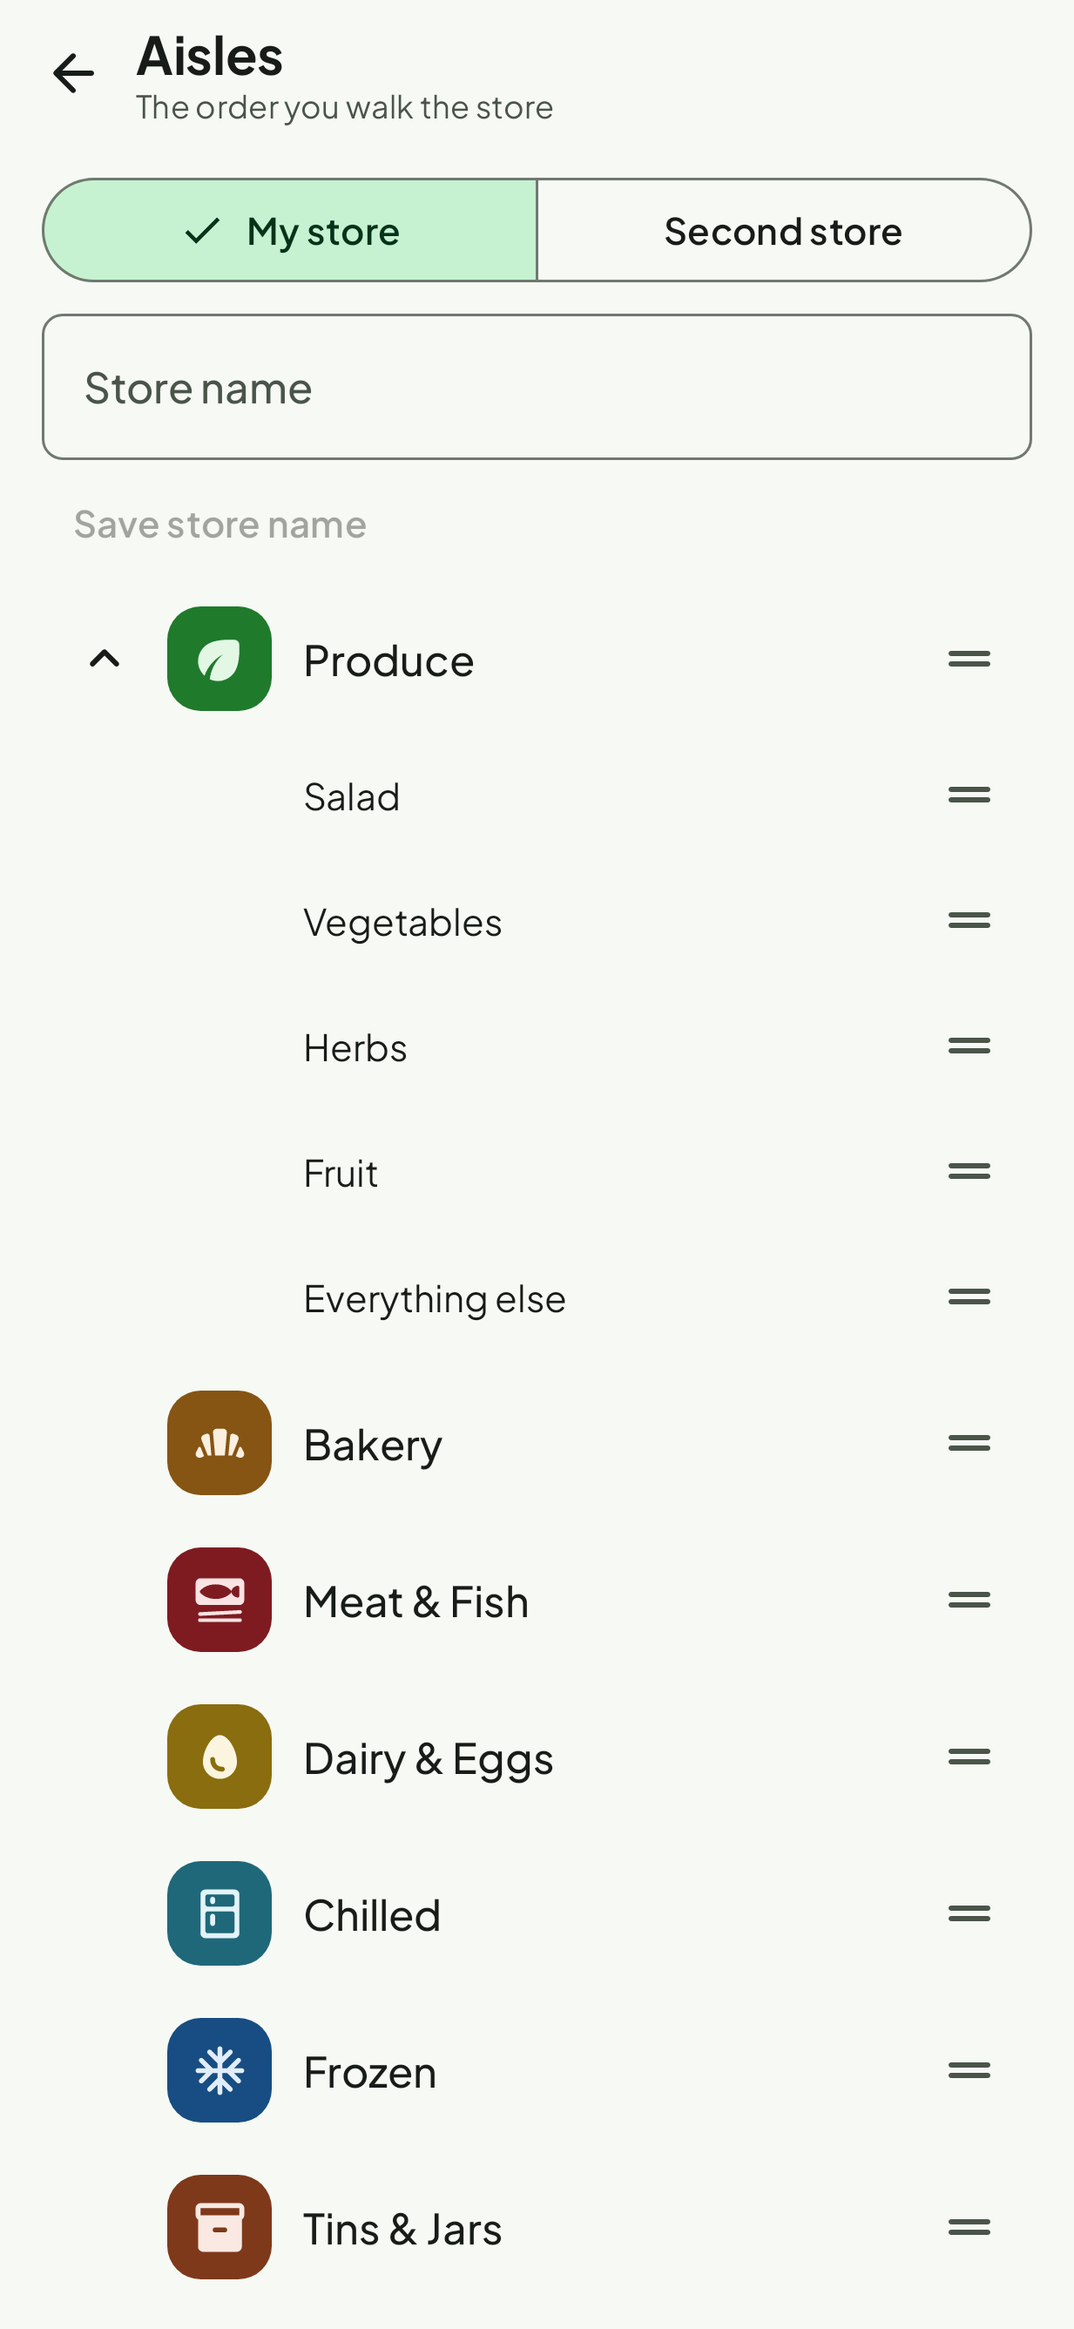
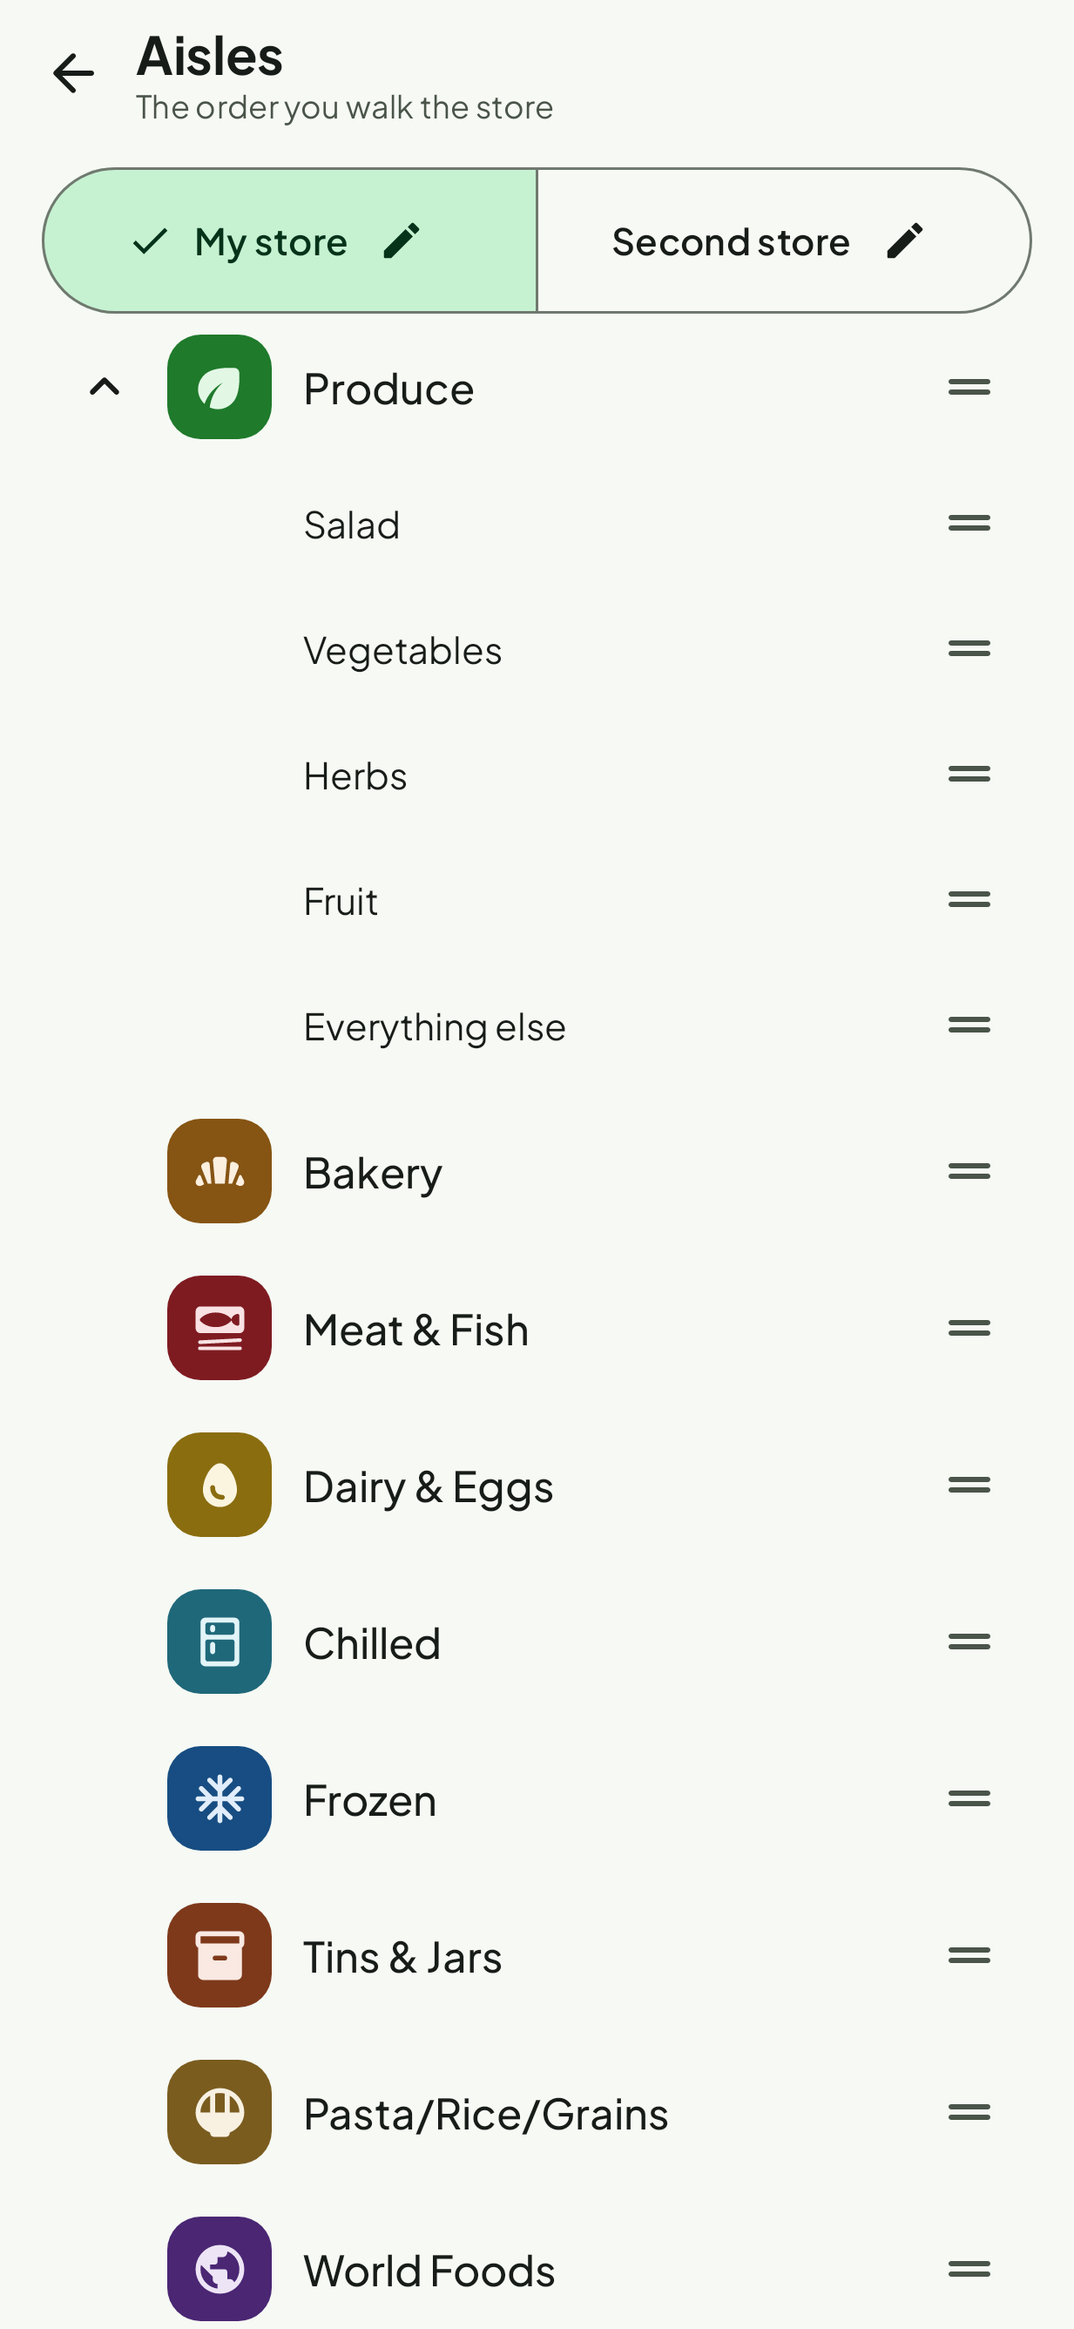
[AD.2] Store name: a pencil on each store tab
The name field and its button above the aisles went; each store tab's
pencil opens a small rename dialog for that store.

Claude-Session: https://claude.ai/code/session_01XHyUGxiCMSHv96zvVnb1yh

diff --git a/android/app/src/main/java/com/robert4lyf/hypershop/ui/settings/AislesRoute.kt b/android/app/src/main/java/com/robert4lyf/hypershop/ui/settings/AislesRoute.kt
@@ -1,12 +1,19 @@
 package com.robert4lyf.hypershop.ui.settings
 
 import androidx.compose.foundation.layout.Column
+import androidx.compose.foundation.layout.Row
 import androidx.compose.foundation.layout.fillMaxSize
 import androidx.compose.foundation.layout.fillMaxWidth
 import androidx.compose.foundation.layout.padding
+import androidx.compose.foundation.layout.size
 import androidx.compose.foundation.rememberScrollState
 import androidx.compose.foundation.verticalScroll
+import androidx.compose.material.icons.Icons
+import androidx.compose.material.icons.rounded.Edit
+import androidx.compose.material3.AlertDialog
 import androidx.compose.material3.ExperimentalMaterial3Api
+import androidx.compose.material3.Icon
+import androidx.compose.material3.IconButton
 import androidx.compose.material3.MaterialTheme
 import androidx.compose.material3.OutlinedTextField
 import androidx.compose.material3.SegmentedButton
@@ -20,8 +27,10 @@ import androidx.compose.runtime.getValue
 import androidx.compose.runtime.mutableStateOf
 import androidx.compose.runtime.saveable.rememberSaveable
 import androidx.compose.runtime.setValue
+import androidx.compose.ui.Alignment
 import androidx.compose.ui.Modifier
 import androidx.compose.ui.platform.testTag
+import androidx.compose.ui.text.style.TextOverflow
 import androidx.compose.ui.unit.dp
 import androidx.lifecycle.compose.collectAsStateWithLifecycle
 import androidx.lifecycle.viewmodel.compose.viewModel
@@ -49,7 +58,7 @@ fun AislesRoute(
             onMoveGroupTo = { a, g, i -> vm.moveGroupTo(a, g, i) },
             onResetAisles = { vm.resetAisleOrder() },
             onEditStore = { vm.editStore(it) },
-            onRenameStore = vm::renameStore,
+            onRenameStore = { store, name -> vm.renameStore(store, name) },
         ),
         onBack = onBack,
     )
@@ -69,32 +78,71 @@ fun AislesScreen(
         Column(Modifier.fillMaxSize().reorderViewport(reorder).verticalScroll(scroll).testTag("aisles")) {
             ScreenHeader(title = "Aisles", subtitle = "The order you walk the store", onBack = onBack, backTag = "aisles-back")
             Column(Modifier.padding(horizontal = 16.dp, vertical = 8.dp)) {
-                // Missing 4 of the review: a second store's order, picked when a shop starts.
+                // Missing 4 of the review: a second store's order, picked when a shop starts. Step AD.2: each store's
+                // tab has a pencil that renames it, in place of a name field above the aisles.
+                var renaming by rememberSaveable { mutableStateOf<Long?>(null) }
                 SingleChoiceSegmentedButtonRow(Modifier.fillMaxWidth()) {
-                    SegmentedButton(
-                        selected = ui.editingStore == 1L,
-                        onClick = { actions.onEditStore(1) },
-                        shape = SegmentedButtonDefaults.itemShape(0, 2),
-                        colors = basilSegmentedColors(),
-                        modifier = Modifier.testTag("store-1"),
-                    ) { Text(ui.storeNames[1] ?: "My store") }
-                    SegmentedButton(
-                        selected = ui.editingStore == 2L,
-                        onClick = { actions.onEditStore(2) },
-                        shape = SegmentedButtonDefaults.itemShape(1, 2),
-                        colors = basilSegmentedColors(),
-                        modifier = Modifier.testTag("store-2"),
-                    ) { Text(ui.storeNames[2] ?: "Second store") }
+                    for ((i, store) in listOf(1L, 2L).withIndex()) {
+                        val name = ui.storeNames[store] ?: if (store == 1L) "My store" else "Second store"
+                        SegmentedButton(
+                            selected = ui.editingStore == store,
+                            onClick = { actions.onEditStore(store) },
+                            shape = SegmentedButtonDefaults.itemShape(i, 2),
+                            colors = basilSegmentedColors(),
+                            modifier = Modifier.testTag("store-$store"),
+                        ) {
+                            Row(verticalAlignment = Alignment.CenterVertically) {
+                                Text(name, Modifier.weight(1f, fill = false), maxLines = 1, overflow = TextOverflow.Ellipsis)
+                                IconButton(
+                                    onClick = { renaming = store },
+                                    modifier = Modifier.size(40.dp).testTag("rename-store-$store"),
+                                ) {
+                                    Icon(Icons.Rounded.Edit, contentDescription = "Rename $name", modifier = Modifier.size(18.dp))
+                                }
+                            }
+                        }
+                    }
                 }
-                var storeName by rememberSaveable(ui.editingStore, ui.storeNames) {
-                    mutableStateOf(ui.storeNames[ui.editingStore].orEmpty())
+                renaming?.let { store ->
+                    RenameStoreDialog(
+                        ui.storeNames[store].orEmpty(),
+                        onDismiss = { renaming = null },
+                    ) {
+                        renaming = null
+                        actions.onRenameStore(store, it)
+                    }
                 }
-                OutlinedTextField(value = storeName, onValueChange = {
-                    storeName = it.take(80)
-                }, label = { Text("Store name") }, modifier = Modifier.fillMaxWidth())
-                TextButton(enabled = storeName.isNotBlank(), onClick = { actions.onRenameStore(storeName) }) { Text("Save store name") }
                 if (ui.loaded) AislesGroup(ui, actions, reorder)
             }
         }
     }
+}
+
+/** Step AD.2: a store's new name, from the pencil on its tab. */
+@Composable
+private fun RenameStoreDialog(
+    current: String,
+    onDismiss: () -> Unit,
+    onSave: (String) -> Unit,
+) {
+    var name by rememberSaveable { mutableStateOf(current) }
+    AlertDialog(
+        onDismissRequest = onDismiss,
+        title = { Text("Rename store") },
+        text = {
+            OutlinedTextField(
+                value = name,
+                onValueChange = { name = it.take(80) },
+                label = { Text("Store name") },
+                singleLine = true,
+                modifier = Modifier.fillMaxWidth().testTag("store-name"),
+            )
+        },
+        confirmButton = {
+            TextButton(enabled = name.isNotBlank(), onClick = { onSave(name.trim()) }, modifier = Modifier.testTag("store-name-save")) {
+                Text("Save")
+            }
+        },
+        dismissButton = { TextButton(onClick = onDismiss) { Text("Cancel") } },
+    )
 }

diff --git a/android/app/src/test/java/com/robert4lyf/hypershop/ui/settings/WalkingOrderScreenTest.kt b/android/app/src/test/java/com/robert4lyf/hypershop/ui/settings/WalkingOrderScreenTest.kt
@@ -5,6 +5,7 @@ import androidx.compose.runtime.mutableStateOf
 import androidx.compose.runtime.setValue
 import androidx.compose.ui.geometry.Offset
 import androidx.compose.ui.semantics.SemanticsActions
+import androidx.compose.ui.test.assertContentDescriptionEquals
 import androidx.compose.ui.test.getUnclippedBoundsInRoot
 import androidx.compose.ui.test.junit4.createComposeRule
 import androidx.compose.ui.test.onNodeWithContentDescription
@@ -51,30 +52,33 @@ class WalkingOrderScreenTest {
         compose.setContent {
             HyperShopTheme(dynamicColor = false) {
                 AislesScreen(
-                    state,
-                    SettingsActions(
-                        onMoveAisleTo = { a, i ->
-                            events += "aisle $a to $i"
-                            state =
-                                state.copy(
-                                    aisles =
-                                        state.aisles.toMutableList().apply {
-                                            remove(a)
-                                            add(i, a)
-                                        },
-                                )
-                        },
-                        onMoveGroup = { a, g, by -> events += "move $a $g $by" },
-                        onMoveGroupTo = { a, g, i ->
-                            events += "to $a $g $i"
-                            val gs =
-                                state.groups.getValue(a).toMutableList().apply {
-                                    remove(g)
-                                    add(i, g)
-                                }
-                            state = state.copy(groups = state.groups + (a to gs))
-                        },
-                    ),
+                    ui = state,
+                    actions =
+                        SettingsActions(
+                            onMoveAisleTo = { a, i ->
+                                events += "aisle $a to $i"
+                                state =
+                                    state.copy(
+                                        aisles =
+                                            state.aisles.toMutableList().apply {
+                                                remove(a)
+                                                add(i, a)
+                                            },
+                                    )
+                            },
+                            onMoveGroup = { a, g, by -> events += "move $a $g $by" },
+                            onEditStore = { events += "edit $it" },
+                            onRenameStore = { store, name -> events += "rename $store $name" },
+                            onMoveGroupTo = { a, g, i ->
+                                events += "to $a $g $i"
+                                val gs =
+                                    state.groups.getValue(a).toMutableList().apply {
+                                        remove(g)
+                                        add(i, g)
+                                    }
+                                state = state.copy(groups = state.groups + (a to gs))
+                            },
+                        ),
                 )
             }
         }
@@ -194,5 +198,16 @@ class WalkingOrderScreenTest {
             listOf("Move ${AisleCode.entries[0].displayName} down", "Move ${AisleCode.entries[0].displayName} to bottom"),
             labels("aisle-row-${AisleCode.entries[0].name}"),
         )
+    }
+
+    @Test
+    fun eachStoreTabHasAPencilAndNoNameFieldAboveTheAisles() {
+        // Step AD.2: no name field or "Save store name" above the aisles; each tab's pencil names its store.
+        show(ui.copy(storeNames = mapOf(1L to "Tesco", 2L to "Second store")))
+        compose.onNodeWithText("Store name").assertDoesNotExist()
+        compose.onNodeWithText("Save store name").assertDoesNotExist()
+        compose.onNodeWithTag("rename-store-1").assertContentDescriptionEquals("Rename Tesco")
+        compose.onNodeWithTag("rename-store-2").assertContentDescriptionEquals("Rename Second store")
+        compose.onRoot().captureRoboImage(Shots.path("aisles-stores-light.png"))
     }
 }

diff --git a/android/app/src/test/java/com/robert4lyf/hypershop/ui/settings/StoreRenameTest.kt b/android/app/src/test/java/com/robert4lyf/hypershop/ui/settings/StoreRenameTest.kt
@@ -1,0 +1,57 @@
+package com.robert4lyf.hypershop.ui.settings
+
+import androidx.compose.ui.test.assertIsNotEnabled
+import androidx.compose.ui.test.junit4.createComposeRule
+import androidx.compose.ui.test.onNodeWithContentDescription
+import androidx.compose.ui.test.onNodeWithTag
+import androidx.compose.ui.test.performClick
+import androidx.compose.ui.test.performTextReplacement
+import androidx.test.ext.junit.runners.AndroidJUnit4
+import com.robert4lyf.hypershop.core.model.AisleCode
+import com.robert4lyf.hypershop.ui.theme.HyperShopTheme
+import org.junit.Assert.assertEquals
+import org.junit.Rule
+import org.junit.Test
+import org.junit.runner.RunWith
+import org.robolectric.annotation.Config
+
+/**
+ * Step AD.2: a store is renamed from the pencil on its tab, in a small dialog. At Robolectric's default size: with the
+ * `w411dp-h891dp-xxhdpi` qualifiers a dialog holding a text field never lets Compose go idle (a test-only hang, seen
+ * with a bare AlertDialog too).
+ */
+@RunWith(AndroidJUnit4::class)
+@Config(sdk = [34])
+class StoreRenameTest {
+    @get:Rule val compose = createComposeRule()
+
+    @Test
+    fun thePencilRenamesItsOwnStore() {
+        val events = mutableListOf<String>()
+        val ui =
+            SettingsUi(aisles = AisleCode.entries.take(3), loaded = true, storeNames = mapOf(1L to "Tesco", 2L to "Second store"))
+        compose.setContent {
+            HyperShopTheme(dynamicColor = false) {
+                AislesScreen(
+                    ui,
+                    SettingsActions(
+                        onEditStore = { events += "edit $it" },
+                        onRenameStore = { store, name -> events += "rename $store $name" },
+                    ),
+                )
+            }
+        }
+        compose.onNodeWithContentDescription("Rename Second store").performClick()
+        compose.onNodeWithTag("store-name").performTextReplacement("  ")
+        compose.onNodeWithTag("store-name-save").assertIsNotEnabled()
+        compose.onNodeWithTag("store-name").performTextReplacement("Lidl")
+        compose.onNodeWithTag("store-name-save").performClick()
+        compose.onNodeWithTag("store-name").assertDoesNotExist()
+        // The store whose pencil it was, not the one being edited (store 1); and the tab stays as it was.
+        assertEquals(listOf("rename 2 Lidl"), events)
+        compose.onNodeWithContentDescription("Rename Tesco").performClick()
+        compose.onNodeWithTag("store-name").performTextReplacement("Big Tesco")
+        compose.onNodeWithTag("store-name-save").performClick()
+        assertEquals(listOf("rename 2 Lidl", "rename 1 Big Tesco"), events)
+    }
+}

diff --git a/android/app/src/main/java/com/robert4lyf/hypershop/ui/settings/SettingsViewModel.kt b/android/app/src/main/java/com/robert4lyf/hypershop/ui/settings/SettingsViewModel.kt
@@ -306,10 +306,13 @@ class SettingsViewModel(
             _ui.update { it.copy(editingStore = id, aisles = order, groups = groups) }
         }
 
-    fun renameStore(name: String) =
-        viewModelScope.launch {
-            c.repository.renameStore(_ui.value.editingStore, name)
-        }
+    /** Step AD.2: the pencil on a store's tab renames that store, whichever is being edited. */
+    fun renameStore(
+        store: Long,
+        name: String,
+    ) = viewModelScope.launch {
+        c.repository.renameStore(store, name)
+    }
 
     /** Settings › Always at home › "Ran out" (missing 5 of the review): on the list once, still always at home. */
     fun ranOut(name: String) =

diff --git a/android/app/src/main/java/com/robert4lyf/hypershop/ui/settings/SettingsRoute.kt b/android/app/src/main/java/com/robert4lyf/hypershop/ui/settings/SettingsRoute.kt
@@ -139,7 +139,7 @@ data class SettingsActions(
     val onRanOut: (String) -> Unit = {},
     /** Aisles: which store's order is being edited (missing 4 of the review). */
     val onEditStore: (Long) -> Unit = {},
-    val onRenameStore: (String) -> Unit = {},
+    val onRenameStore: (Long, String) -> Unit = { _, _ -> },
     val onMoveAisle: (AisleCode, Int) -> Unit = { _, _ -> },
     /** "Move to top" (0) / "Move to bottom" (last). */
     val onMoveAisleTo: (AisleCode, Int) -> Unit = { _, _ -> },

diff --git a/docs/design/simple-ux.md b/docs/design/simple-ux.md
@@ -54,6 +54,7 @@ On the review, lines still to go on the list are counted as **N to add** ("4 to 
 | **Remove from list** | A recipe on the list: its Recipes card's ⋮, its card on the list (⋮), its ingredients sheet | `ListRepository.removeFromList` for each time it is on the list (the use goes only when nothing of it is bought; otherwise unbought shares are withdrawn); one Undo |
 | **Can't find it** / **Found it** | The item's sheet | `markUnavailable` / `markAvailable` |
 | **Change store** | List ⋮, only with two or more stores | `ShopStart.change` → active store |
+| A store tab's ✎ › **Rename store** › **Save** | Settings › Aisles (Walking order), on each of the two store tabs | `renameStore(store, name)` for that tab's store (Step AD; the "Store name" field and "Save store name" above the aisles went) |
 | **Store order / Group by recipe**, **Arrange items** | List ⋮ | `Settings.listView`; `arrangeWith` |
 | **Walking order** (Settings' first row): drag an aisle by its handle (≡, at the row's end); its ⌄, beside the name, opens its groups, each dragged the same way within its aisle (**Everything else** for things in no group). Held near the screen's edge, the page scrolls. TalkBack: **Move up / down / to top / to bottom** on each row; a keyboard: Ctrl or Alt + ↑ ↓ on a handle | Settings › Aisles | aisles: `moveAisleTo`; groups: `arrangeWith(store)` (the same stored group order as Arrange items), for the store being edited, written once on release; bumps listRev, so the list, the shared text, the widget and the watch follow |
 | **Finish shopping** | List, once something is ticked | `ListRepository.finish` (Undo) |

diff --git a/PROGRESS.md b/PROGRESS.md
@@ -621,7 +621,13 @@ loop. No tabs, modes, settings or help text; no schema, protocol, golden-data or
   small change (a dragged row can leave composition when scrolled). Tests: `WalkingOrderScreenTest` (drag a group up,
   a group dragged far stays in its aisle, drag an aisle down, held at the bottom edge the screen scrolls, TalkBack's
   moves and which are offered), `SettingsScreenTest` (moves through TalkBack's actions), `JourneyTest`.
-- [ ] AD.2 Store name: a pencil on each store tab.
+- [x] AD.2 Store name: a pencil on each store tab. The "Store name" field and "Save store name" at the top of Aisles
+  went; each of the two store tabs ("My store", "Second store", or their names) has a ✎ ("Rename <name>") that opens a
+  small dialog (Store name, Save / Cancel; Save off while blank). It renames that tab's store, not the one being
+  edited (`renameStore(store, name)`, was the edited store only). Claim checked: there is no adding or removing of
+  stores (two fixed profiles); nothing to keep. Test: `StoreRenameTest` (at Robolectric's default size: with the
+  `w411dp-h891dp-xxhdpi` qualifiers any dialog holding a text field never lets Compose go idle, a bare `AlertDialog`
+  too; noted in the report), `WalkingOrderScreenTest` (no field, a pencil per tab).
 - [ ] AD.3 Review matches the list.
 - [ ] AD.4 A chosen reading looks chosen.
 - [ ] AD.5 One recipe card shape.
